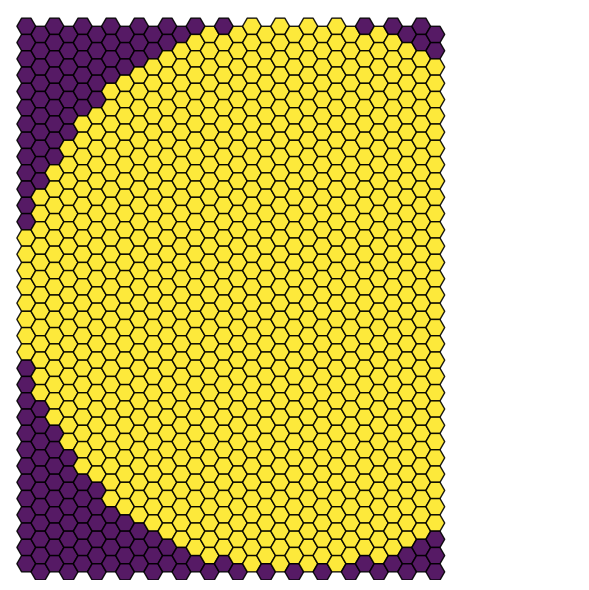
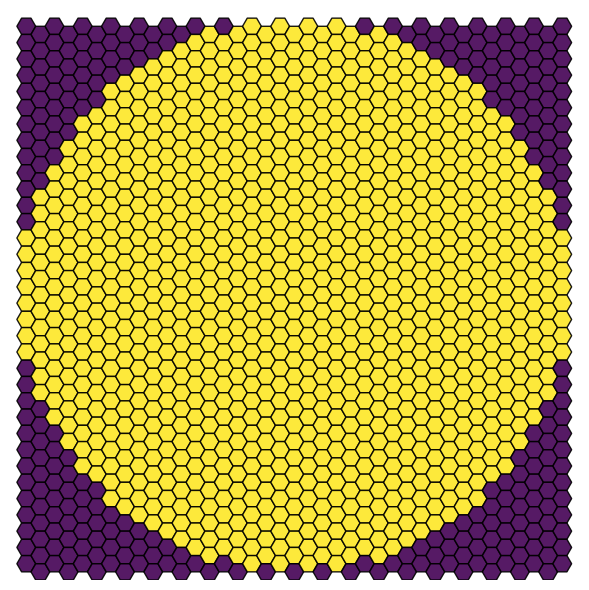
fixes

Changed region(s): [[0.7334, 0.0305, 0.9779, 1.0]]

diff --git a/Visualization/HexagdlyImage.py b/Visualization/HexagdlyImage.py
@@ -55,7 +55,7 @@ def plot_image_hexagdly(image: np.ndarray, as_hex: bool = False, cmap ='viridis'
         npixel = 0
         intensities = []
         hexagons = []
-        for x in range(30):
+        for x in range(len(converted[0])):
             for y in range(len(converted)):
                 intensity = converted[y, x]
                 hexagon = RegularPolygon(
@@ -74,7 +74,7 @@ def plot_image_hexagdly(image: np.ndarray, as_hex: bool = False, cmap ='viridis'
         p.set_array(np.array(np.array(intensities)))
         ax.add_collection(p)
     else:
-        ax.imshow(converted, cmap=cmap)
+        ax.pcolormesh(converted, edgecolors='black', cmap=cmap, linewidth=0.5)
 
     plt.tight_layout()
     plt.savefig(f'../Visuals/hexagdly_{len(image)}px_{'hex' if as_hex else 'square'}.png', bbox_inches='tight')
